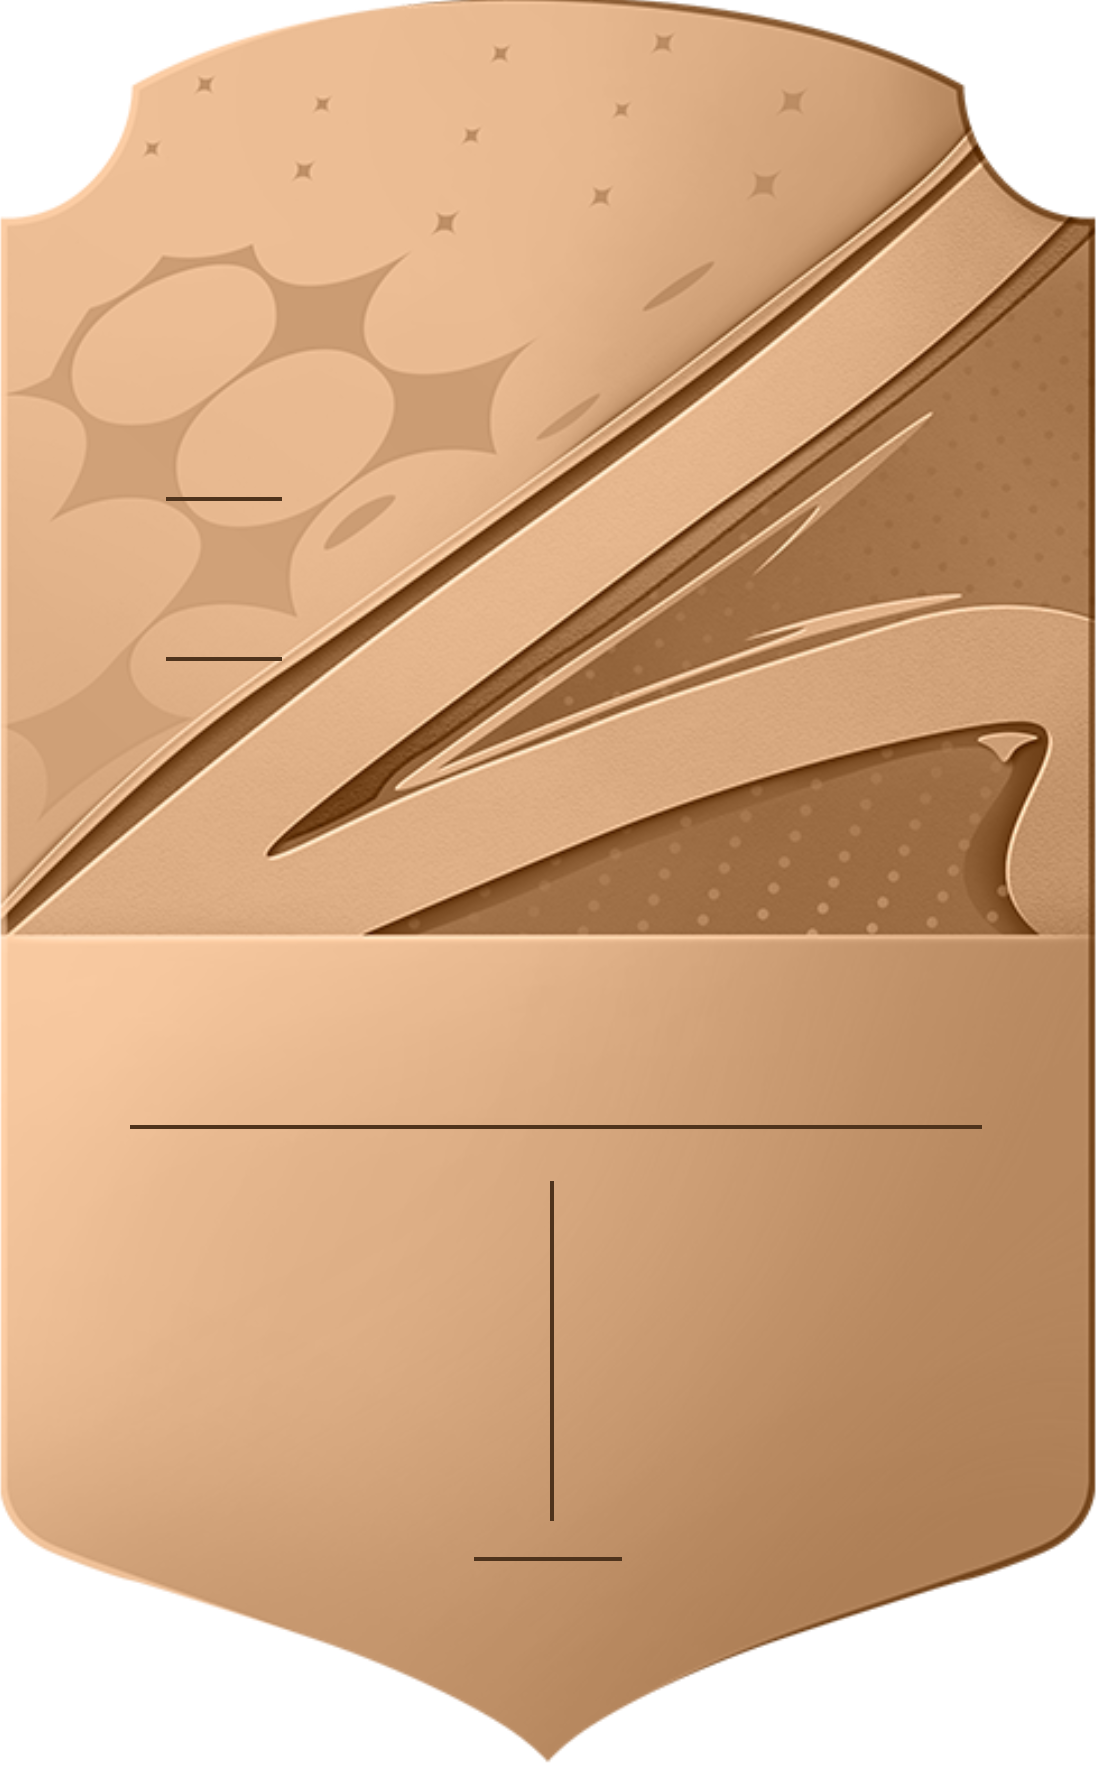
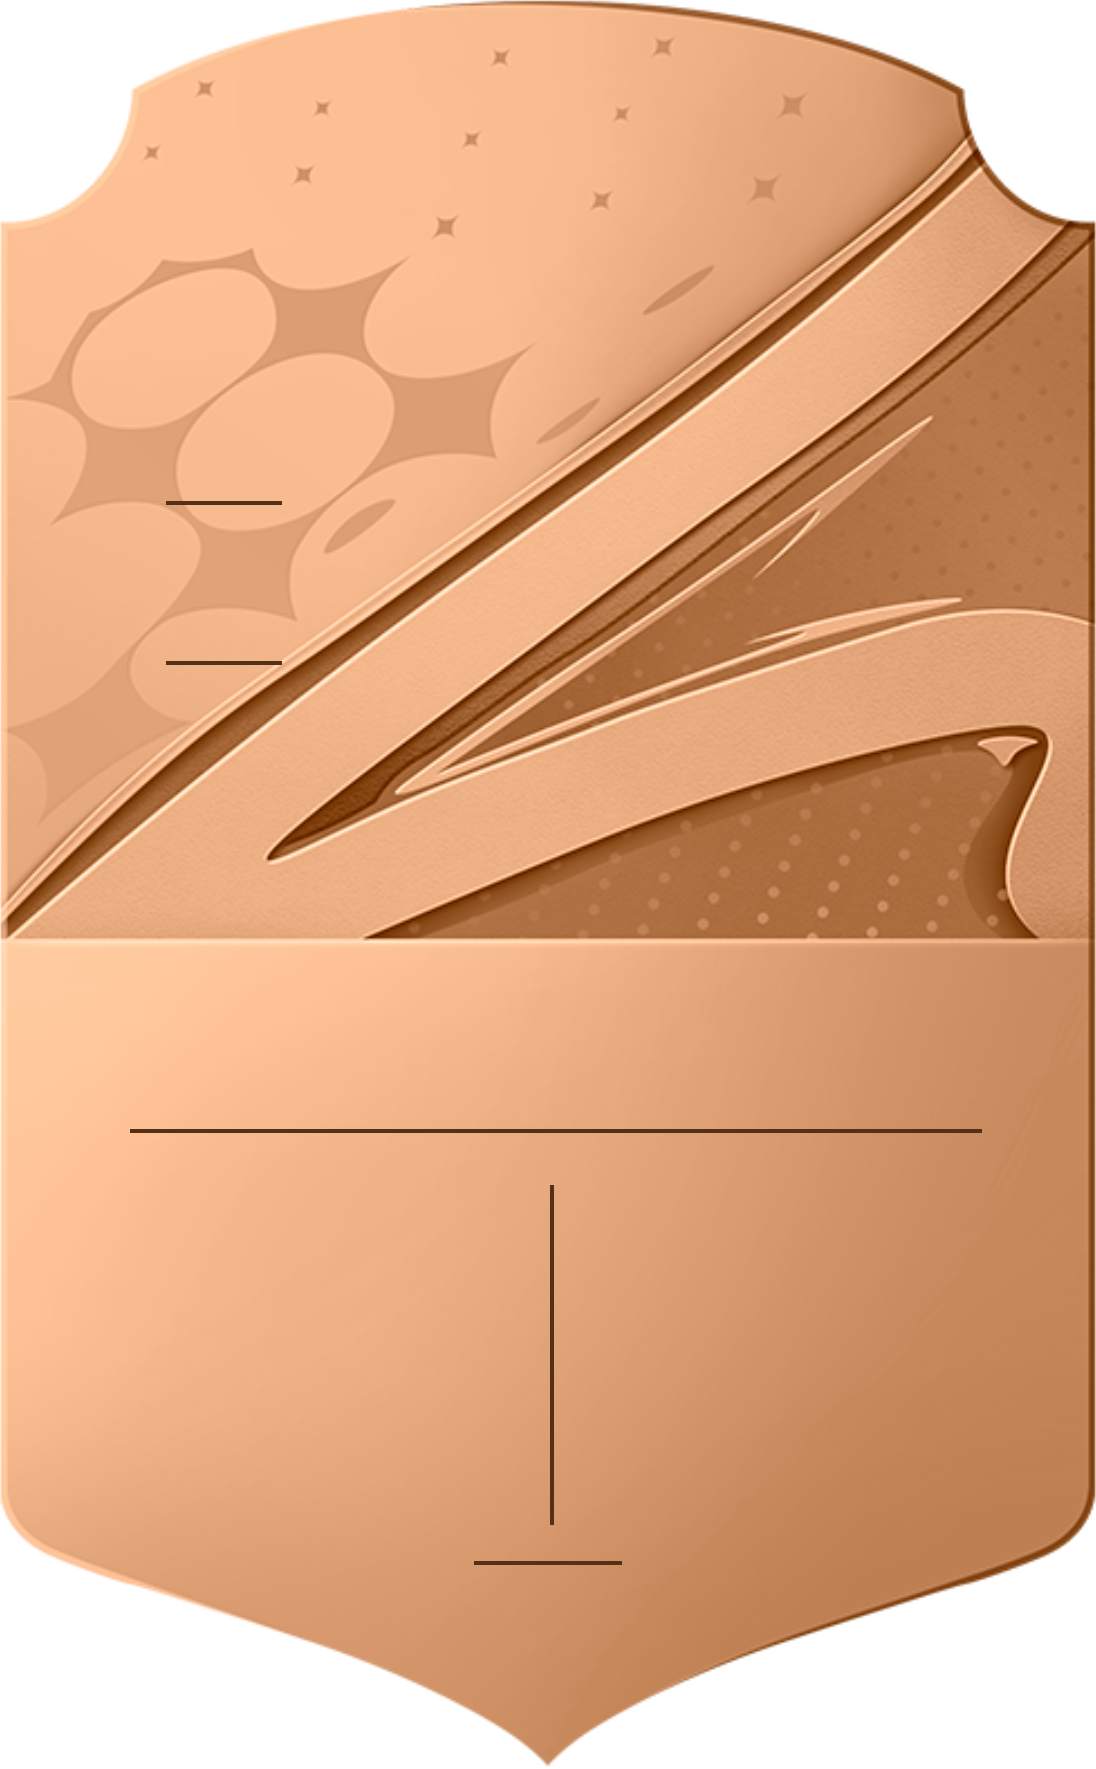
feat: insert images and edit Player Card component

diff --git a/src/components/PlayerCard/index.tsx b/src/components/PlayerCard/index.tsx
@@ -1,3 +1,4 @@
+'use client'
 import Image from "next/image";
 import flagImage from "@/../public/flag.webp"
 
@@ -32,40 +33,67 @@ export function Stats({stat, value}:StatsProps) {
     )
 }
 
-export default function PlayerCard(playerData:PlayerDataProps) {
+
+function Badge({ playerData, children }) {
+    console.log("🚀 ~ Badge ~ playerData:", playerData)
+    if (playerData.overall.overall < 65) {
+        return (
+            <div className={"bg-[url('../../public/bronze.png')] h-[500px] w-[311px] bg-contain bg-center bg-no-repeat text-[#4d331f]"}>
+                {children}
+            </div>
+        );
+    } else if (playerData.overall.overall < 74) {
+        return (
+            <div className={"bg-[url('../../public/silver.png')] h-[500px] w-[311px] bg-contain bg-center bg-no-repeat text-[#4d331f]"}>
+                {children}
+            </div>
+        );
+    } else {
+        return (
+            <div className={"bg-[url('../../public/gold.png')] h-[500px] w-[311px] bg-contain bg-center bg-no-repeat text-[#4d331f]"}>
+                {children}
+            </div>
+        );
+    }
+}
+export default function PlayerCard({ playerData }:PlayerDataProps) {
     return (
-      <div className="bg-[url('../../public/bronze.png')] h-[500px] w-[311px] bg-contain bg-center bg-no-repeat text-[#4d331f]">
+      <Badge playerData={playerData}>
         <div className="px-8 py-[72px]">
             <div className="flex flex-row h-[195px]">
                 <div>
                     <div className="flex flex-col justify-center w-min items-center ">
-                        <div className="text-6xl leading-10">94</div>
-                        <span className="text-2xl text-center w-min leading-6 pt-1">RW</span>
+                        <div className="text-6xl leading-10">{playerData?.overall?.overall}</div>
+                        <span className="text-2xl text-center w-min leading-6 pt-1">{playerData.position}</span>
                     </div>
                     
                     <div>
                         <div className="w-[54px] flex justify-center py-2 pl-2">
-                            <Image src={flagImage} alt="flag" width={44} height={22}/>
+                            {playerData.country ? (
+                                        <Image src={playerData.country} alt="flag" width={48} height={22} />
+                                    ) : (
+                                        <Image src={flagImage} alt="flag" width={48} height={22}/>
+                                    )}
                         </div>
-                        <div>Time do Corno</div>
+                        {playerData.team && <div className="pt-[6px] ml-1"><Image src={playerData.team} alt="flag" width={48} height={48} /></div>}
                     </div>
                 </div>
-                <div>Image do corno</div>
+                <div>{playerData.image && <Image src={playerData.image} alt="flag" width={26} height={26} />}</div>
             </div>
-            <div className="text-center py-3 text-4xl">CORNO</div>
+            <div className="text-center py-3 text-4xl">{playerData.name}</div>
             <div className="flex flex-row gap-16 justify-between">
                 <div>
-                    <Stats stat="PAC" value="87"/>
-                    <Stats stat="SHO" value="87"/>
-                    <Stats stat="PAS" value="87"/>
+                    <Stats stat="PAC" value={playerData.overall?.pace}/>
+                    <Stats stat="SHO" value={playerData.overall?.shooting}/>
+                    <Stats stat="PAS" value={playerData.overall?.passing}/>
                 </div>
                 <div>
-                    <Stats stat="DRI" value="87"/>
-                    <Stats stat="DEF" value="87"/>
-                    <Stats stat="PHY" value="87"/>
+                    <Stats stat="DRI" value={playerData.overall?.dribble}/>
+                    <Stats stat="DEF" value={playerData.overall?.defense}/>
+                    <Stats stat="PHY" value={playerData.overall?.physics}/>
                 </div>
             </div>
         </div>
-      </div>
+      </Badge>
     );
   }

diff --git a/src/utils/images.ts b/src/utils/images.ts
@@ -1,6 +1,9 @@
 import flagImage from "@/../public/flag.webp";
 import NHImage from "@/../public/NH.png";
+import Garfinho from "@/../public/garfinho.png"
 
 export const BrazilFlagImage = flagImage;
 
 export const NH = NHImage;
+
+export const GarfinhoImage = Garfinho
